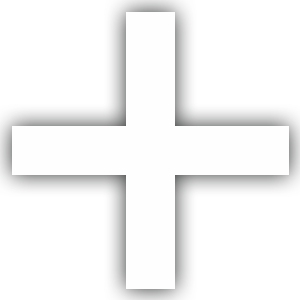
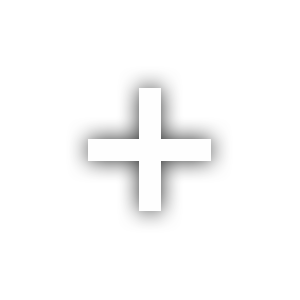
preAlpha commit, text working

Changed region(s): [[0.0, 0.0, 1.0, 1.0]]

diff --git a/StorygenCC/Window.Designer.cs b/StorygenCC/Window.Designer.cs
@@ -32,11 +32,11 @@
             this.btnConfig = new System.Windows.Forms.Button();
             this.titleSections = new System.Windows.Forms.Label();
             this.sectionsPanelContainer = new System.Windows.Forms.Panel();
-            this.subTitle = new System.Windows.Forms.Label();
-            this.btnAddSection = new System.Windows.Forms.Button();
-            this.txtAddSection = new System.Windows.Forms.Label();
             this.txtRemoveSection = new System.Windows.Forms.Label();
             this.btnRemoveSection = new System.Windows.Forms.Button();
+            this.txtAddSection = new System.Windows.Forms.Label();
+            this.btnAddSection = new System.Windows.Forms.Button();
+            this.subTitle = new System.Windows.Forms.Label();
             this.sectionsPanelContainer.SuspendLayout();
             this.SuspendLayout();
             // 
@@ -203,51 +203,6 @@
             this.sectionsPanelContainer.TabIndex = 11;
             this.sectionsPanelContainer.Visible = false;
             // 
-            // subTitle
-            // 
-            this.subTitle.AccessibleRole = System.Windows.Forms.AccessibleRole.None;
-            this.subTitle.Anchor = ((System.Windows.Forms.AnchorStyles)((System.Windows.Forms.AnchorStyles.Top | System.Windows.Forms.AnchorStyles.Right)));
-            this.subTitle.AutoSize = true;
-            this.subTitle.BackColor = System.Drawing.Color.Transparent;
-            this.subTitle.Font = new System.Drawing.Font("Bahnschrift Light Condensed", 9.75F, System.Drawing.FontStyle.Regular, System.Drawing.GraphicsUnit.Point, ((byte)(0)));
-            this.subTitle.ForeColor = System.Drawing.Color.FromArgb(((int)(((byte)(60)))), ((int)(((byte)(60)))), ((int)(((byte)(60)))));
-            this.subTitle.Location = new System.Drawing.Point(734, 32);
-            this.subTitle.Margin = new System.Windows.Forms.Padding(0);
-            this.subTitle.Name = "subTitle";
-            this.subTitle.Size = new System.Drawing.Size(41, 16);
-            this.subTitle.TabIndex = 12;
-            this.subTitle.Text = "by PoNo";
-            this.subTitle.TextAlign = System.Drawing.ContentAlignment.MiddleRight;
-            // 
-            // btnAddSection
-            // 
-            this.btnAddSection.Anchor = ((System.Windows.Forms.AnchorStyles)((System.Windows.Forms.AnchorStyles.Top | System.Windows.Forms.AnchorStyles.Right)));
-            this.btnAddSection.BackColor = System.Drawing.Color.FromArgb(((int)(((byte)(0)))), ((int)(((byte)(120)))), ((int)(((byte)(30)))));
-            this.btnAddSection.BackgroundImage = global::StorygenCC.Properties.Resources.plus2;
-            this.btnAddSection.BackgroundImageLayout = System.Windows.Forms.ImageLayout.Stretch;
-            this.btnAddSection.FlatAppearance.BorderSize = 0;
-            this.btnAddSection.FlatStyle = System.Windows.Forms.FlatStyle.Flat;
-            this.btnAddSection.Location = new System.Drawing.Point(738, 0);
-            this.btnAddSection.Name = "btnAddSection";
-            this.btnAddSection.Size = new System.Drawing.Size(25, 25);
-            this.btnAddSection.TabIndex = 6;
-            this.btnAddSection.UseVisualStyleBackColor = false;
-            this.btnAddSection.Click += new System.EventHandler(this.btbAddSection_Click);
-            // 
-            // txtAddSection
-            // 
-            this.txtAddSection.AutoSize = true;
-            this.txtAddSection.BackColor = System.Drawing.Color.Transparent;
-            this.txtAddSection.Font = new System.Drawing.Font("Bahnschrift Condensed", 12F, System.Drawing.FontStyle.Regular, System.Drawing.GraphicsUnit.Point, ((byte)(0)));
-            this.txtAddSection.ForeColor = System.Drawing.Color.White;
-            this.txtAddSection.Location = new System.Drawing.Point(643, 3);
-            this.txtAddSection.Margin = new System.Windows.Forms.Padding(0);
-            this.txtAddSection.Name = "txtAddSection";
-            this.txtAddSection.Size = new System.Drawing.Size(92, 19);
-            this.txtAddSection.TabIndex = 11;
-            this.txtAddSection.Text = "Add new section";
-            this.txtAddSection.TextAlign = System.Drawing.ContentAlignment.MiddleRight;
-            // 
             // txtRemoveSection
             // 
             this.txtRemoveSection.AutoSize = true;
@@ -275,6 +230,51 @@
             this.btnRemoveSection.TabIndex = 12;
             this.btnRemoveSection.UseVisualStyleBackColor = false;
             this.btnRemoveSection.Click += new System.EventHandler(this.btnRemoveSection_Click);
+            // 
+            // txtAddSection
+            // 
+            this.txtAddSection.AutoSize = true;
+            this.txtAddSection.BackColor = System.Drawing.Color.Transparent;
+            this.txtAddSection.Font = new System.Drawing.Font("Bahnschrift Condensed", 12F, System.Drawing.FontStyle.Regular, System.Drawing.GraphicsUnit.Point, ((byte)(0)));
+            this.txtAddSection.ForeColor = System.Drawing.Color.White;
+            this.txtAddSection.Location = new System.Drawing.Point(643, 3);
+            this.txtAddSection.Margin = new System.Windows.Forms.Padding(0);
+            this.txtAddSection.Name = "txtAddSection";
+            this.txtAddSection.Size = new System.Drawing.Size(92, 19);
+            this.txtAddSection.TabIndex = 11;
+            this.txtAddSection.Text = "Add new section";
+            this.txtAddSection.TextAlign = System.Drawing.ContentAlignment.MiddleRight;
+            // 
+            // btnAddSection
+            // 
+            this.btnAddSection.Anchor = ((System.Windows.Forms.AnchorStyles)((System.Windows.Forms.AnchorStyles.Top | System.Windows.Forms.AnchorStyles.Right)));
+            this.btnAddSection.BackColor = System.Drawing.Color.FromArgb(((int)(((byte)(0)))), ((int)(((byte)(120)))), ((int)(((byte)(30)))));
+            this.btnAddSection.BackgroundImage = global::StorygenCC.Properties.Resources.plus;
+            this.btnAddSection.BackgroundImageLayout = System.Windows.Forms.ImageLayout.Stretch;
+            this.btnAddSection.FlatAppearance.BorderSize = 0;
+            this.btnAddSection.FlatStyle = System.Windows.Forms.FlatStyle.Flat;
+            this.btnAddSection.Location = new System.Drawing.Point(738, 0);
+            this.btnAddSection.Name = "btnAddSection";
+            this.btnAddSection.Size = new System.Drawing.Size(25, 25);
+            this.btnAddSection.TabIndex = 6;
+            this.btnAddSection.UseVisualStyleBackColor = false;
+            this.btnAddSection.Click += new System.EventHandler(this.btbAddSection_Click);
+            // 
+            // subTitle
+            // 
+            this.subTitle.AccessibleRole = System.Windows.Forms.AccessibleRole.None;
+            this.subTitle.Anchor = ((System.Windows.Forms.AnchorStyles)((System.Windows.Forms.AnchorStyles.Top | System.Windows.Forms.AnchorStyles.Right)));
+            this.subTitle.AutoSize = true;
+            this.subTitle.BackColor = System.Drawing.Color.Transparent;
+            this.subTitle.Font = new System.Drawing.Font("Bahnschrift Light Condensed", 9.75F, System.Drawing.FontStyle.Regular, System.Drawing.GraphicsUnit.Point, ((byte)(0)));
+            this.subTitle.ForeColor = System.Drawing.Color.FromArgb(((int)(((byte)(60)))), ((int)(((byte)(60)))), ((int)(((byte)(60)))));
+            this.subTitle.Location = new System.Drawing.Point(734, 32);
+            this.subTitle.Margin = new System.Windows.Forms.Padding(0);
+            this.subTitle.Name = "subTitle";
+            this.subTitle.Size = new System.Drawing.Size(41, 16);
+            this.subTitle.TabIndex = 12;
+            this.subTitle.Text = "by PoNo";
+            this.subTitle.TextAlign = System.Drawing.ContentAlignment.MiddleRight;
             // 
             // Window
             // 

diff --git a/StorygenCC/Window.cs b/StorygenCC/Window.cs
@@ -1,8 +1,9 @@
-using StorygenCC.utils;
+using storygen;
+using StorygenCC.utils;
 using System;
+using System.Collections.Generic;
 using System.IO;
 using System.Windows.Forms;
-using static System.Collections.Specialized.BitVector32;
 
 namespace StorygenCC
 {
@@ -10,6 +11,7 @@ namespace StorygenCC
     {
         private string mapsetPath;
         private string filePath;
+        private List<StoryboardSection> sections = new List<StoryboardSection>();
 
         public Window()
         {
@@ -18,7 +20,7 @@ namespace StorygenCC
 
         private void btnExport_Click(object sender, EventArgs e)
         {
-
+            ExportStoryboard();
         }
 
         private void loadProject_Click(object sender, EventArgs e)
@@ -33,7 +35,7 @@ namespace StorygenCC
             if (openFileDialog.ShowDialog() == DialogResult.OK)
             {
                 filePath = openFileDialog.FileName;
-                mapsetPath = new FileInfo(filePath).Directory.FullName;
+                mapsetPath = new FileInfo(filePath).Directory.FullName + "\\";
                 loadedBeatmapPath.Text = $"Loaded beatmap: {mapsetPath}";
                 sectionsPanelContainer.Visible = true;
             }
@@ -48,12 +50,22 @@ namespace StorygenCC
             }
         }
 
-        public void AddSection(StoryboardSection section) => sectionsPanel.Items.Add(new ListViewItem(section.ConvertSectionToString()));
+        public void AddSection(StoryboardSection section)
+        {
+            sectionsPanel.Items.Add(new ListViewItem(section.ConvertSectionToString()));
+            sections.Add(section);
+        }
 
         private void btnRemoveSection_Click(object sender, EventArgs e)
         {
             if(sectionsPanel.SelectedItems.Count > 0)
                 sectionsPanel.Items.RemoveAt(sectionsPanel.SelectedIndices[0]);
+        }
+
+        private void ExportStoryboard()
+        {
+            Storyboard storyboard = new Storyboard(mapsetPath, sections);
+            storyboard.Export();
         }
     }
 }

diff --git a/StorygenCC/SectionWindow.Designer.cs b/StorygenCC/SectionWindow.Designer.cs
@@ -124,9 +124,9 @@
             this.btnAccept.FlatStyle = System.Windows.Forms.FlatStyle.Flat;
             this.btnAccept.Font = new System.Drawing.Font("Bahnschrift", 9.75F, System.Drawing.FontStyle.Bold, System.Drawing.GraphicsUnit.Point, ((byte)(0)));
             this.btnAccept.ForeColor = System.Drawing.Color.White;
-            this.btnAccept.Location = new System.Drawing.Point(0, 147);
+            this.btnAccept.Location = new System.Drawing.Point(0, 143);
             this.btnAccept.Name = "btnAccept";
-            this.btnAccept.Size = new System.Drawing.Size(216, 23);
+            this.btnAccept.Size = new System.Drawing.Size(220, 23);
             this.btnAccept.TabIndex = 8;
             this.btnAccept.Text = "OK";
             this.btnAccept.UseVisualStyleBackColor = false;
@@ -137,8 +137,7 @@
             this.AutoScaleDimensions = new System.Drawing.SizeF(6F, 13F);
             this.AutoScaleMode = System.Windows.Forms.AutoScaleMode.Font;
             this.BackColor = System.Drawing.Color.FromArgb(((int)(((byte)(30)))), ((int)(((byte)(30)))), ((int)(((byte)(30)))));
-            this.ClientSize = new System.Drawing.Size(216, 170);
-            this.ControlBox = false;
+            this.ClientSize = new System.Drawing.Size(220, 166);
             this.Controls.Add(this.btnAccept);
             this.Controls.Add(this.label1);
             this.Controls.Add(this.txtEndTime);
@@ -148,6 +147,8 @@
             this.Controls.Add(this.inputEndTime);
             this.Controls.Add(this.inputStartTime);
             this.FormBorderStyle = System.Windows.Forms.FormBorderStyle.FixedSingle;
+            this.MaximizeBox = false;
+            this.MinimizeBox = false;
             this.Name = "SectionWindow";
             this.ShowIcon = false;
             this.ShowInTaskbar = false;

diff --git a/StorygenCC/storygen/Storyboard.cs b/StorygenCC/storygen/Storyboard.cs
@@ -1,15 +1,32 @@
 using storygen.Elements;
 using storygen.Util;
+using StorygenCC.utils;
 using System;
 using System.Collections.Generic;
+using System.Windows.Forms;
+using static System.Windows.Forms.ListView;
 
 namespace storygen
 {
     class Storyboard : Osb
     {
-        public Storyboard(String FolderPath) : base(FolderPath)
+        private readonly List<StoryboardSection> sections = new List<StoryboardSection>();
+
+        private FontManager fontManager;
+
+        public Storyboard(String FolderPath, List<StoryboardSection> sections) : base(FolderPath)
         {
-            // Make up your code here
+            this.sections = sections;
+            this.fontManager = new FontManager(this);
+            GenerateStoryboard();
+        }
+        private void GenerateStoryboard()
+        {
+            foreach(var section in sections)
+            {
+                fontManager.GenerateLine(section.title, section.startTime, section.endTime, 0, 400);
+                fontManager.GenerateLine(section.subTitle, section.startTime, section.endTime, 0, 420);
+            }
         }
     }
 }

diff --git a/StorygenCC/utils/FontManager.cs b/StorygenCC/utils/FontManager.cs
@@ -1,0 +1,40 @@
+using storygen;
+using storygen.Util;
+using System;
+using System.Collections.Generic;
+using System.Linq;
+using System.Text;
+using System.Threading.Tasks;
+
+namespace StorygenCC.utils
+{
+    class FontManager
+    {
+        private Storyboard storyboard;
+        Font font;
+
+        public FontManager(Storyboard storyboard)
+        {
+            this.storyboard = storyboard;
+            this.font = storyboard.Text.LoadFont("Arial", 40);
+        }
+
+        public void GenerateLine(string text, int startTime, int endTime, int positionX, int positionY)
+        {
+            var sentence = font.WriteSentence(
+                text,
+                startTime,
+                new Vector2(positionX, positionY),
+                storyboard.Centre,
+                storyboard.Foreground,
+                TextAlign.Left
+                );
+
+            foreach (var sprite in sentence.Sprites)
+            {
+                sprite.Fade(startTime, startTime + 500, 0, 1);
+                sprite.Fade(endTime - 500, endTime + 500, 1, 0);
+            }
+        }
+    }
+}

diff --git a/StorygenCC/Properties/Resources.Designer.cs b/StorygenCC/Properties/Resources.Designer.cs
@@ -69,25 +69,5 @@ namespace StorygenCC.Properties {
                 return ((System.Drawing.Bitmap)(obj));
             }
         }
-        
-        /// <summary>
-        ///   Recherche une ressource localisée de type System.Drawing.Bitmap.
-        /// </summary>
-        internal static System.Drawing.Bitmap plus1 {
-            get {
-                object obj = ResourceManager.GetObject("plus1", resourceCulture);
-                return ((System.Drawing.Bitmap)(obj));
-            }
-        }
-        
-        /// <summary>
-        ///   Recherche une ressource localisée de type System.Drawing.Bitmap.
-        /// </summary>
-        internal static System.Drawing.Bitmap plus2 {
-            get {
-                object obj = ResourceManager.GetObject("plus2", resourceCulture);
-                return ((System.Drawing.Bitmap)(obj));
-            }
-        }
     }
 }

diff --git a/StorygenCC/utils/StoryboardOptions.cs b/StorygenCC/utils/StoryboardOptions.cs
@@ -1,0 +1,12 @@
+using System;
+using System.Collections.Generic;
+using System.Linq;
+using System.Text;
+using System.Threading.Tasks;
+
+namespace StorygenCC.utils
+{
+    class StoryboardOptions
+    {
+    }
+}

diff --git a/StorygenCC/SectionWindow.cs b/StorygenCC/SectionWindow.cs
@@ -34,7 +34,6 @@ namespace StorygenCC
                 return mm + ss + ms;
             }
             else return int.Parse(time);
-
         }
 
         private void btnAccept_Click_1(object sender, EventArgs e)
